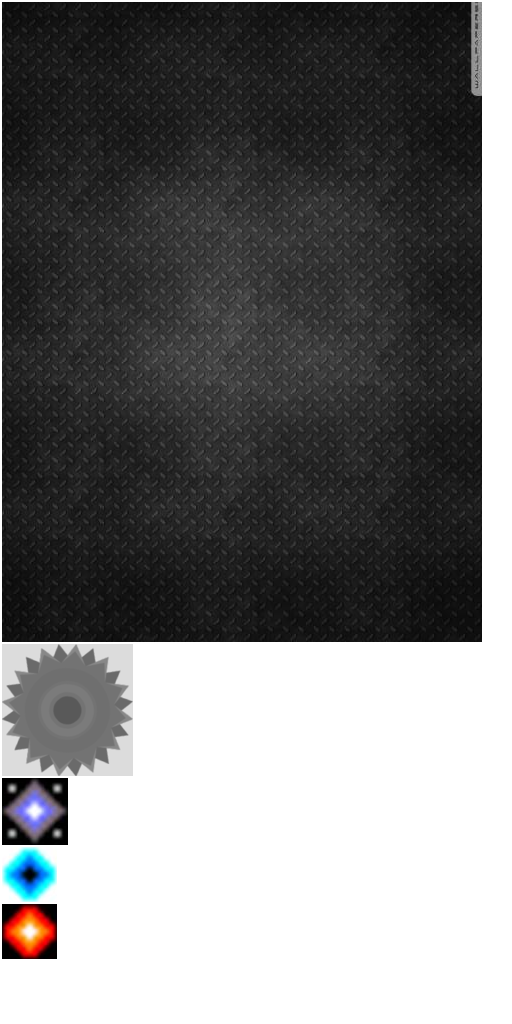
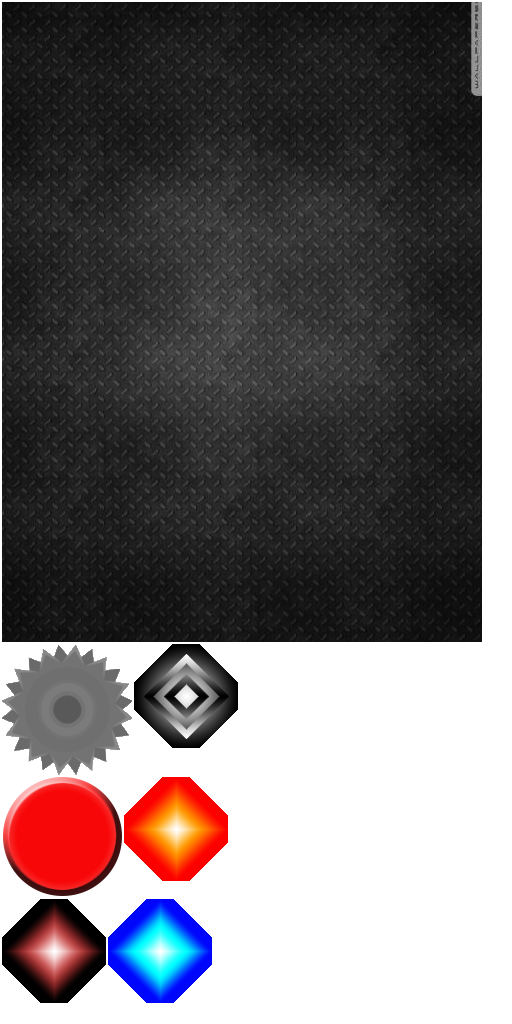
Added suicide particle! Added new sprite textures! Added power up button!

Changed region(s): [[0.0, 0.625, 0.4688, 1.0]]

diff --git a/platformRider/core/src/com/platform/rider/world/WorldController.java b/platformRider/core/src/com/platform/rider/world/WorldController.java
@@ -12,6 +12,7 @@ import com.platform.rider.screens.MenuScreen;
 import com.platform.rider.sprites.Hero;
 import com.platform.rider.sprites.Particle;
 import com.platform.rider.sprites.Saw;
+import com.platform.rider.utils.BlastRadiusCallBack;
 import com.platform.rider.utils.GameConstants;
 import com.platform.rider.utils.OverlapTester;
 import com.platform.rider.utils.TouchPadHelper;
@@ -34,9 +35,10 @@ public class WorldController {
     public TouchPadHelper touchPadHelper;
     int totalParticlesCreated = 0;
     public int totalParticlesDestroyed = 0;
+    int suicideParticlesAlive = 0;
     int splitParticlesAlive = 0;
     int totalParticlesAlive = 0;
-    int stage = 1;
+    int stage = 0;
     boolean gameOver = false;
     Array<Vector2> splitParticlePosition = new Array<Vector2>();
 
@@ -70,7 +72,7 @@ public class WorldController {
     }
 
     private void createParticles() {
-        for (int i = 0; i < 10; i++) {
+        for (int i = 0; i < 4; i++) {
             createNewParticle(GameConstants.NORMAL_PARTICLE);
         }
     }
@@ -130,6 +132,7 @@ public class WorldController {
             destroySplitParticles();
             checkStage();
             splitParticles();
+            createSuicideParticles();
             camera.update();
             //Touch pad readings
             Vector2 touchPadVec = new Vector2(touchPadHelper.getTouchpad().getKnobPercentX() * 10f, touchPadHelper.getTouchpad().getKnobPercentY() * 10f);
@@ -137,6 +140,7 @@ public class WorldController {
             if (touchPadVec.x != 0 && touchPadVec.y != 0) {
                 hero.getBody().setLinearVelocity(touchPadVec);
             }
+            handleHeroPowerUp();
             updateHero();
             updateParticles();
             updateSpikes();
@@ -152,6 +156,7 @@ public class WorldController {
 
     private void destroyParticles() {
         for (String particleKey : normalParticlesForRemoval) {
+            String type = particleHashMap.get(particleKey).getType();
             particleHashMap.get(particleKey).setSprite(null);
             final Array<JointEdge> list = particleHashMap.get(particleKey).getBody().getJointList();
             while (list.size > 0) {
@@ -163,7 +168,13 @@ public class WorldController {
             totalParticlesDestroyed++;
             totalParticlesAlive--;
             //create a new particle
-            createNewParticle(GameConstants.NORMAL_PARTICLE);
+            if (type.equals(GameConstants.NORMAL_PARTICLE)) {
+                createNewParticle(GameConstants.NORMAL_PARTICLE);
+            } else if (type.equals(GameConstants.SPLIT_PARTICLE)) {
+                splitParticlesAlive--;
+            } else {
+                suicideParticlesAlive--;
+            }
         }
         normalParticlesForRemoval.clear();
     }
@@ -220,8 +231,42 @@ public class WorldController {
     }
 
     private void checkStage() {
-        if (totalParticlesDestroyed >= 10 && stage == 1) {
+        if (totalParticlesDestroyed > 0 && totalParticlesDestroyed % 10 == 0) {
             stage++;
+        }
+    }
+
+    private void checkSuicideParticle(Particle particle) {
+        if (particle.getBlastTimer() > 500) {
+            BlastRadiusCallBack blastRadiusCallBack = new BlastRadiusCallBack();
+            Vector2 center = particle.getBody().getPosition();
+            Vector2 aabbLowerBound = new Vector2(center);
+            Vector2 aabbUpperBound = new Vector2(center);
+            aabbLowerBound = aabbLowerBound.sub(new Vector2(GameConstants.BLAST_RADIUS, GameConstants.BLAST_RADIUS));
+            aabbUpperBound = aabbUpperBound.add(new Vector2(GameConstants.BLAST_RADIUS, GameConstants.BLAST_RADIUS));
+
+
+            world.QueryAABB(blastRadiusCallBack, aabbLowerBound.x, aabbLowerBound.y, aabbUpperBound.x, aabbUpperBound.y);
+            for (int i = 0; i < blastRadiusCallBack.getFoundBodies().size(); i++) {
+                Body body = blastRadiusCallBack.getFoundBodies().get(i);
+                Vector2 bodyWorldCenter = body.getWorldCenter();
+
+                //ignore bodies outside the blast range
+                if ((bodyWorldCenter.sub(center)).len() >= GameConstants.BLAST_RADIUS)
+                    continue;
+
+                if ("hero".equals(body.getUserData().toString())) {
+                    gameOver = true;
+                }
+                if (!normalParticlesForRemoval.contains(body.getUserData().toString())) {
+                    normalParticlesForRemoval.add(body.getUserData().toString());
+                }
+            }
+            particle.setBlastTimer(0);
+        } else {
+            int count = particle.getBlastTimer();
+            count++;
+            particle.setBlastTimer(count);
         }
     }
 
@@ -236,6 +281,15 @@ public class WorldController {
             splitParticlesAlive++;
         }
         splitParticlePosition.clear();
+    }
+
+    private void createSuicideParticles() {
+        if (totalParticlesDestroyed > 0 && totalParticlesDestroyed % 10 == 0 && suicideParticlesAlive == 0) {
+            //for (int i = 0; i < stage; i++) {
+            createNewParticle(GameConstants.SUICIDE_PARTICLE);
+            suicideParticlesAlive++;
+            //}
+        }
     }
 
     private void updateParticles() {
@@ -265,6 +319,8 @@ public class WorldController {
 
             if (GameConstants.SPLIT_PARTICLE.equals(particle.getType())) {
                 updateSplitParticleCount(particle);
+            } else if (GameConstants.SUICIDE_PARTICLE.equals(particle.getType())) {
+                checkSuicideParticle(particle);
             }
 
             particle.getSprite().setPosition((particle.getBody().getPosition().x * GameConstants.PIXELS_TO_METERS) - particle.getSprite().
@@ -285,14 +341,14 @@ public class WorldController {
     }
 
     private void updateSplitParticleCount(Particle particle) {
-        if (stage == 2 && particle.getSplitParticleCount() > 200) {
+        if (stage >= 2 && particle.getSplitParticleCount() > 200 && splitParticlesAlive < 20) {
             //set split particle position
             Vector2 particlePosition = new Vector2(particle.getBody().getPosition().x * GameConstants.PIXELS_TO_METERS - particle.getSprite().
                     getWidth() / 2, particle.getBody().getPosition().y * GameConstants.PIXELS_TO_METERS - particle.getSprite().
                     getHeight() / 2);
             splitParticlePosition.add(particlePosition);
             particle.setSplitParticleCount(0);
-        } else {
+        } else if (splitParticlesAlive < 20) {
             int count = particle.getSplitParticleCount();
             count++;
             particle.setSplitParticleCount(count);
@@ -368,13 +424,31 @@ public class WorldController {
         if (gameOver && Gdx.input.justTouched()) {
             Vector2 touchPoint = new Vector2(Gdx.input.getX(), Gdx.input.getY());
             Rectangle gameoverBound = new Rectangle(
-                    540-(Assets.instance.fonts.defaultBig.getCache().getBounds().width/2),
-                    960+(Assets.instance.fonts.defaultBig.getCache().getBounds().height/2),
+                    (Gdx.graphics.getWidth() / 2) - (Assets.instance.fonts.defaultBig.getCache().getBounds().width / 2),
+                    (Gdx.graphics.getHeight() / 2),
                     Assets.instance.fonts.defaultBig.getCache().getBounds().width,
                     Assets.instance.fonts.defaultBig.getCache().getBounds().height);
             if (OverlapTester.pointInRectangle(gameoverBound, touchPoint)) {
                 destroyAllParticles();
                 backToMenu();
+            }
+        }
+    }
+
+    public void handleHeroPowerUp() {
+        for (int i = 0; i < 2; i++) {
+            if (Gdx.input.isTouched(i)) {
+                Vector2 touchPoint = new Vector2(Gdx.input.getX(i), Gdx.input.getY(i));
+                Rectangle gameoverBound = new Rectangle(
+                        15,
+                        (Gdx.graphics.getHeight() - Assets.instance.assetLevelDecoration.powerbutton.getRotatedPackedHeight()),
+                        Assets.instance.assetLevelDecoration.powerbutton.getRotatedPackedWidth(),
+                        Assets.instance.assetLevelDecoration.powerbutton.getRotatedPackedHeight());
+                if (OverlapTester.pointInRectangle(gameoverBound, touchPoint)) {
+                    GameConstants.COLLISION_SPEED = 20f;
+                }
+            } else {
+                GameConstants.COLLISION_SPEED = 10f;
             }
         }
     }

diff --git a/platformRider/core/src/com/platform/rider/worldRenderer/WorldRenderer.java b/platformRider/core/src/com/platform/rider/worldRenderer/WorldRenderer.java
@@ -60,13 +60,13 @@ public class WorldRenderer {
         }
     }
 
-    private void renderParticles(){
+    private void renderParticles() {
         for (Map.Entry<String, Particle> entry : worldController.particleHashMap.entrySet()) {
             entry.getValue().render(batch);
         }
     }
 
-    private void renderSpikes(){
+    private void renderSpikes() {
         for (Map.Entry<String, Saw> entry : worldController.spikeHashMap.entrySet()) {
             entry.getValue().render(batch);
         }
@@ -90,10 +90,11 @@ public class WorldRenderer {
         renderGuiScore(batch);
         // draw game over text
         renderGuiGameOverMessage(batch);
+        renderPowerButton(batch);
         batch.end();
     }
 
-    private void renderGuiScore (SpriteBatch batch) {
+    private void renderGuiScore(SpriteBatch batch) {
         float x = -15;
         float y = -15;
         batch.draw(Assets.instance.assetParticle.particle,
@@ -103,7 +104,7 @@ public class WorldRenderer {
                 x + 75, y + 37);
     }
 
-    private void renderGuiGameOverMessage (SpriteBatch batch) {
+    private void renderGuiGameOverMessage(SpriteBatch batch) {
         float x = cameraGUI.viewportWidth / 2;
         float y = cameraGUI.viewportHeight / 2;
         if (worldController.isGameOver()) {
@@ -111,6 +112,15 @@ public class WorldRenderer {
             fontGameOver.drawMultiLine(batch, "GAME OVER", x, y, 0,
                     BitmapFont.HAlignment.CENTER);
             fontGameOver.setColor(1, 1, 1, 1);
+        }
+    }
+
+    private void renderPowerButton(SpriteBatch batch) {
+        float x = 15;
+        if (!worldController.isGameOver()) {
+            float y = cameraGUI.viewportHeight - Assets.instance.assetLevelDecoration.powerbutton.getRotatedPackedHeight();
+            batch.draw(Assets.instance.assetLevelDecoration.powerbutton,
+                    x, y, 50, 50, 100, 100, 1, 1, 0);
         }
     }
 }

diff --git a/platformRider/core/src/com/platform/rider/sprites/Particle.java b/platformRider/core/src/com/platform/rider/sprites/Particle.java
@@ -22,6 +22,7 @@ public class Particle extends AbstractGameObject {
     int splitParticleCount = 0;
     int collisionCount = 0;
     int counter = 0;
+    int blastTimer = 0;
     String type;
 
     public Particle(Vector2 position, World world, int number, String type) {
@@ -35,11 +36,15 @@ public class Particle extends AbstractGameObject {
         if("split_particle".equals(type)){
             textureRegion = Assets.instance.assetParticle.split_particle;
             speed = GameConstants.SPLIT_PARTICAL_SPEED;
-        }else {
+        }else if("normal_particle".equals(type)) {
             textureRegion = Assets.instance.assetParticle.particle;
             speed = GameConstants.NORMAL_PARTICAL_SPEED;
+        }else if("suicide_particle".equals(type)) {
+            textureRegion = Assets.instance.assetParticle.suicide_particle;
+            speed = GameConstants.SUICIDE_PARTICAL_SPEED;
         }
         sprite = new Sprite(textureRegion);
+        sprite.setSize(sprite.getWidth() * GameConstants.PARTICLE_SPRITE_SCALE, sprite.getHeight()*GameConstants.PARTICLE_SPRITE_SCALE);
         sprite.setPosition(-sprite.getWidth() / 2 + position.x,-sprite.getHeight() / 2 + position.y);
 
         bodyDef.type = BodyDef.BodyType.DynamicBody;
@@ -159,6 +164,14 @@ public class Particle extends AbstractGameObject {
 
     public void setSpeed(float speed) {
         this.speed = speed;
+    }
+
+    public int getBlastTimer() {
+        return blastTimer;
+    }
+
+    public void setBlastTimer(int blastTimer) {
+        this.blastTimer = blastTimer;
     }
 
     @Override

diff --git a/platformRider/core/src/com/platform/rider/utils/GameConstants.java b/platformRider/core/src/com/platform/rider/utils/GameConstants.java
@@ -5,20 +5,24 @@ package com.platform.rider.utils;
  */
 public class GameConstants {
     public static final int APP_WIDTH = 1000;
-    public static final int APP_HEIGHT = 1000;
+    public static final int APP_HEIGHT = 600;
 
     public static final float PIXELS_TO_METERS = 100f;
     public static final short SPRITE_1 = 0x1;    // 0001
     public static final short SPRITE_2 = 0x1 << 1; // 0010 or 0x2 in hex
     public static final short SPRITE_3 = 0x1 << 2; // 0010 or 0x3 in hex
+    public static float PARTICLE_SPRITE_SCALE = 0.5f;
     public static float NORMAL_PARTICAL_SPEED = 5f;
     public static float SPLIT_PARTICAL_SPEED = 6f;
+    public static float SUICIDE_PARTICAL_SPEED = 7f;
     public static float COLLISION_SPEED = 10f;
     public static float LINEAR_DAMPING = 2f;
+    public static float BLAST_RADIUS = 1f;
 
     //Particle Types
     public static final String NORMAL_PARTICLE = "normal_particle";
     public static final String SPLIT_PARTICLE = "split_particle";
+    public static final String SUICIDE_PARTICLE = "suicide_particle";
 
     // Location of description file for texture atlas
     public static final String TEXTURE_ATLAS_OBJECTS =

diff --git a/platformRider/core/src/com/platform/rider/assets/Assets.java b/platformRider/core/src/com/platform/rider/assets/Assets.java
@@ -93,10 +93,12 @@ public class Assets implements Disposable, AssetErrorListener {
     public class AssetParticle {
         public final TextureAtlas.AtlasRegion particle;
         public final TextureAtlas.AtlasRegion split_particle;
+        public final TextureAtlas.AtlasRegion suicide_particle;
 
         public AssetParticle(TextureAtlas atlas) {
             particle = atlas.findRegion("particle");
             split_particle = atlas.findRegion("splitparticle");
+            suicide_particle = atlas.findRegion("suicideparticle");
         }
     }
 
@@ -117,10 +119,10 @@ public class Assets implements Disposable, AssetErrorListener {
     }
 
     public class AssetLevelDecoration {
-        public final TextureAtlas.AtlasRegion background;
+        public final TextureAtlas.AtlasRegion powerbutton;
 
         public AssetLevelDecoration(TextureAtlas atlas) {
-            background = atlas.findRegion("background");
+            powerbutton = atlas.findRegion("powerbutton");
 
         }
     }

diff --git a/platformRider/core/src/com/platform/rider/sprites/Hero.java b/platformRider/core/src/com/platform/rider/sprites/Hero.java
@@ -26,6 +26,7 @@ public class Hero extends AbstractGameObject {
         this.position = position;
         textureRegion = Assets.instance.assetHero.hero;
         sprite = new Sprite(textureRegion);
+        sprite.setSize(sprite.getWidth() * GameConstants.PARTICLE_SPRITE_SCALE, sprite.getHeight()*GameConstants.PARTICLE_SPRITE_SCALE);
         sprite.setPosition(-sprite.getWidth() / 2, -sprite.getHeight() / 2);
 
         bodyDef.type = BodyDef.BodyType.DynamicBody;
@@ -36,6 +37,7 @@ public class Hero extends AbstractGameObject {
 
         body = world.createBody(bodyDef);
         body.setFixedRotation(true);
+        body.setUserData("hero");
         body.setLinearDamping(GameConstants.LINEAR_DAMPING);
         shape.setRadius((sprite.getWidth() / 2) /
                 GameConstants.PIXELS_TO_METERS);

diff --git a/platformRider/core/src/com/platform/rider/utils/BlastRadiusCallBack.java b/platformRider/core/src/com/platform/rider/utils/BlastRadiusCallBack.java
@@ -1,0 +1,28 @@
+package com.platform.rider.utils;
+
+import com.badlogic.gdx.physics.box2d.Body;
+import com.badlogic.gdx.physics.box2d.Fixture;
+import com.badlogic.gdx.physics.box2d.QueryCallback;
+
+import java.util.Vector;
+
+/**
+ * Created by Gayan on 4/4/2015.
+ */
+public class BlastRadiusCallBack implements QueryCallback {
+
+    Vector<Body> foundBodies = new Vector<Body>();
+    @Override
+    public boolean reportFixture(Fixture fixture) {
+        foundBodies.add(fixture.getBody());
+        return true;
+    }
+
+    public Vector<Body> getFoundBodies() {
+        return foundBodies;
+    }
+
+    public void setFoundBodies(Vector<Body> foundBodies) {
+        this.foundBodies = foundBodies;
+    }
+}

diff --git a/platformRider/core/src/com/platform/rider/utils/TouchPadHelper.java b/platformRider/core/src/com/platform/rider/utils/TouchPadHelper.java
@@ -26,7 +26,7 @@ public class TouchPadHelper {
     private void init(){
         //Create a touchpad skin
         touchpadSkin = new Skin();
-        //Set background image
+        //Set powerButton image
         touchpadSkin.add("touchBackground", new Texture("data/touchBackground.png"));
         //Set knob image
         touchpadSkin.add("touchKnob", new Texture("data/touchKnob.png"));
